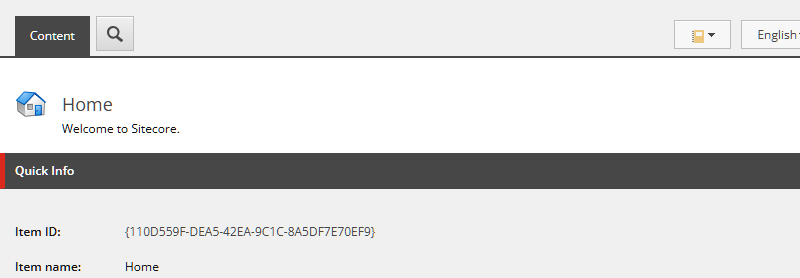
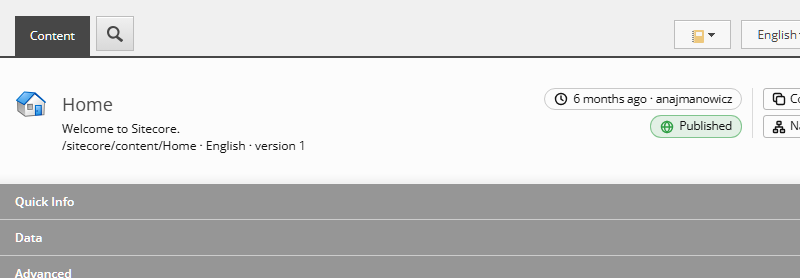
Back, forward, expand and collapse: greyed out when there is nothing to do
- Back and Forward follow the ribbon's Navigate > Back and Forward: Sitecore draws a disabled ribbon button with no
  command, so an enabled one's command in the Navigate strip's markup (a comment while the strip is hidden) is the sign
- Expand all greys out when no section is closed, Collapse all when none is open; a click anywhere re-checks, since a
  caption opens or closes by a class change the engine does not watch
- Greyed buttons are faded, take no pointer or keyboard press, and carry aria-disabled
- Its docs section says so; pictures reshot and stamped

diff --git a/extension/lib/aids/section-toggle.js b/extension/lib/aids/section-toggle.js
@@ -4,9 +4,10 @@
 // open or close every section of the item's fields, each by clicking the captions Sitecore's own toggle sits on, so
 // Sitecore remembers the sections open or closed as it does when you click them one by one. They take Sitecore's
 // header button classes, so every theme sizes them as it sizes the navigator beside them; the aid draws them, and the
-// navigator, flat: no frame or fill until hovered.
-// ponytail: Back and Forward are never greyed out; Sitecore keeps the history on the server, and a press with nothing
-// to go back to does nothing, as on the ribbon
+// navigator, flat: no frame or fill until hovered. Each is greyed out when it has nothing to do: Back and Forward when
+// the ribbon's are (Sitecore keeps the history on the server and draws a disabled ribbon button with no command, so
+// an enabled one's command is the only sign; with no Navigate strip they stay on), Expand all when no section is closed and
+// Collapse all when none is open.
 (function (root) {
   const SCT = (root.SCT = root.SCT || {});
 
@@ -36,11 +37,23 @@
   }
   let sizes = null;
 
+  function sync(doc) {
+    const strip = doc.querySelector('[id$="_Strip_NavigateStrip"]');
+    for (const a of doc.querySelectorAll(".scEditorTabControls a[data-sct-sections]")) {
+      const v = a.getAttribute("data-sct-sections");
+      // a strip that is not showing keeps its markup in a comment, so its text, not its elements
+      const on = v.includes(":") ? !strip || strip.innerHTML.includes(`'${v}'`) : !!doc.querySelector(`.scEditorSectionCaption${v}`);
+      a.setAttribute("aria-disabled", String(!on));
+    }
+  }
+  const watched = new WeakSet(); // documents with the click listener
+
   SCT.registerAid("section-toggle", {
     // Sitecore's mouse handlers read the target's className as a string, which an SVG's is not
     css: `a[data-sct-sections] svg{display:inline-block;vertical-align:middle;pointer-events:none}
 ${FLAT}{border-color:transparent!important;background:transparent!important;box-shadow:none!important}
-${FLAT}:hover{background:color-mix(in srgb,currentColor 14%,transparent)!important}`,
+${FLAT}:hover{background:color-mix(in srgb,currentColor 14%,transparent)!important}
+a[data-sct-sections][aria-disabled="true"]{opacity:.4;pointer-events:none}`,
     apply(ctx) {
       const { doc } = ctx;
       for (const nav of doc.querySelectorAll(".scEditorTabControls #ContentEditorNavigator")) {
@@ -48,7 +61,7 @@ ${FLAT}:hover{background:color-mix(in srgb,currentColor 14%,transparent)!importa
         // plain siblings of the navigator, no wrapper: the gap between header buttons comes from a sibling rule
         for (const { label, icon, message, from } of BUTTONS) {
           const a = ctx.own(doc.createElement("a"));
-          a.setAttribute("data-sct-sections", "");
+          a.setAttribute("data-sct-sections", message || from);
           a.href = "#";
           a.className = "scEditorHeaderButton scButton";
           a.setAttribute("role", "button");
@@ -57,6 +70,7 @@ ${FLAT}:hover{background:color-mix(in srgb,currentColor 14%,transparent)!importa
           a.innerHTML = icon;
           a.addEventListener("click", (e) => {
             e.preventDefault();
+            if (a.getAttribute("aria-disabled") === "true") return;
             if (message) return SCT.sheer(doc, message);
             for (const caption of doc.querySelectorAll(`.scEditorSectionCaption${from}`)) caption.click();
           });
@@ -65,6 +79,9 @@ ${FLAT}:hover{background:color-mix(in srgb,currentColor 14%,transparent)!importa
         sizes ||= new ResizeObserver((entries) => entries.forEach((e) => square(e.target)));
         sizes.observe(nav);
       }
+      // a caption opens or closes by a class change, which the engine does not watch: every click, once it has run
+      if (!watched.has(doc)) (watched.add(doc), ctx.listen(doc, "click", () => setTimeout(() => sync(doc))));
+      sync(doc);
     },
     revert() {
       sizes?.disconnect();

diff --git a/docs/accessibility.md b/docs/accessibility.md
@@ -832,7 +832,7 @@ _Remember Experience Editor state changes which page the Experience Editor opens
 <!-- /shots:ee-state -->
 
 ### Back, forward, expand and collapse
-<!-- aid:section-toggle 2bfcb87187 -->
+<!-- aid:section-toggle 21f322d6ed -->
 
 **What it is for.** Going back to the item you had open before takes the ribbon's Navigate tab, then Back. An item's
 fields come in sections, and Sitecore opens or closes them one caption at a time, so reaching a field in a closed
@@ -842,8 +842,10 @@ section, or getting a long item down to its captions, takes a click per section.
 and Forward (pointing right) do what Navigate > Back and Forward do on the ribbon, through Sitecore's own history of
 the items you opened. Expand all sections (two chevrons pointing apart) opens every section, Collapse all sections
 (two chevrons pointing together) closes them; they click Sitecore's own captions, so Sitecore remembers each section
-open or closed as it does for a single click. The four buttons and the navigator beside them are drawn flat, with no
-frame, and shaded while the pointer is on one. A screen reader hears each button's name.
+open or closed as it does for a single click. A button with nothing to do is greyed out: Back and Forward whenever the
+ribbon's are, Expand all when every section is open and Collapse all when every one is closed. The four buttons and
+the navigator beside them are drawn flat, with no frame, and shaded while the pointer is on one. A screen reader hears
+each button's name, and that a greyed-out one is unavailable.
 
 <!-- shots:section-toggle -->
 **Need:** Reading and focus · **On:** whenever the site shows a theme, and under Native once any need is ticked · **Where:** the Desktop and Content Editor
